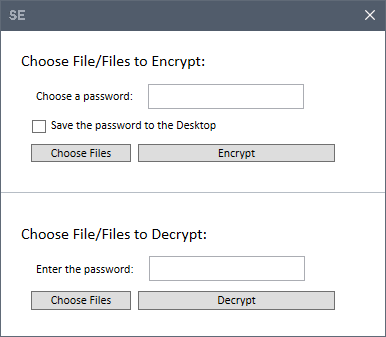
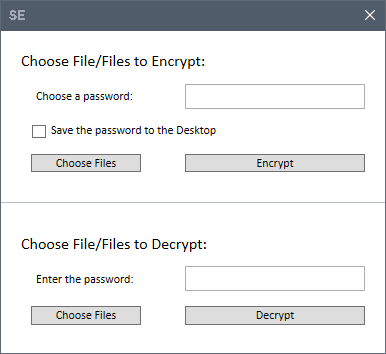
update capture image

diff --git a/SimpleEncrypt/MainWindow.xaml b/SimpleEncrypt/MainWindow.xaml
@@ -4,7 +4,7 @@
         xmlns:d="http://schemas.microsoft.com/expression/blend/2008"
         xmlns:mc="http://schemas.openxmlformats.org/markup-compatibility/2006"
         xmlns:local="clr-namespace:SimpleEncrypt"
-        mc:Ignorable="d" Width="400" Height="344" ResizeMode="NoResize" FontFamily="Calibri" Icon="se.png">
+        mc:Ignorable="d" Width="400" Height="361.333" ResizeMode="NoResize" FontFamily="Calibri" Icon="se.png">
     <StackPanel>
         <TextBlock x:Name="enc_textBox" Height="23" Margin="20,20,20,0" FontSize="16" Text="Choose File/Files to Encrypt:"/>
         <DockPanel Margin="30,10,20,5">
